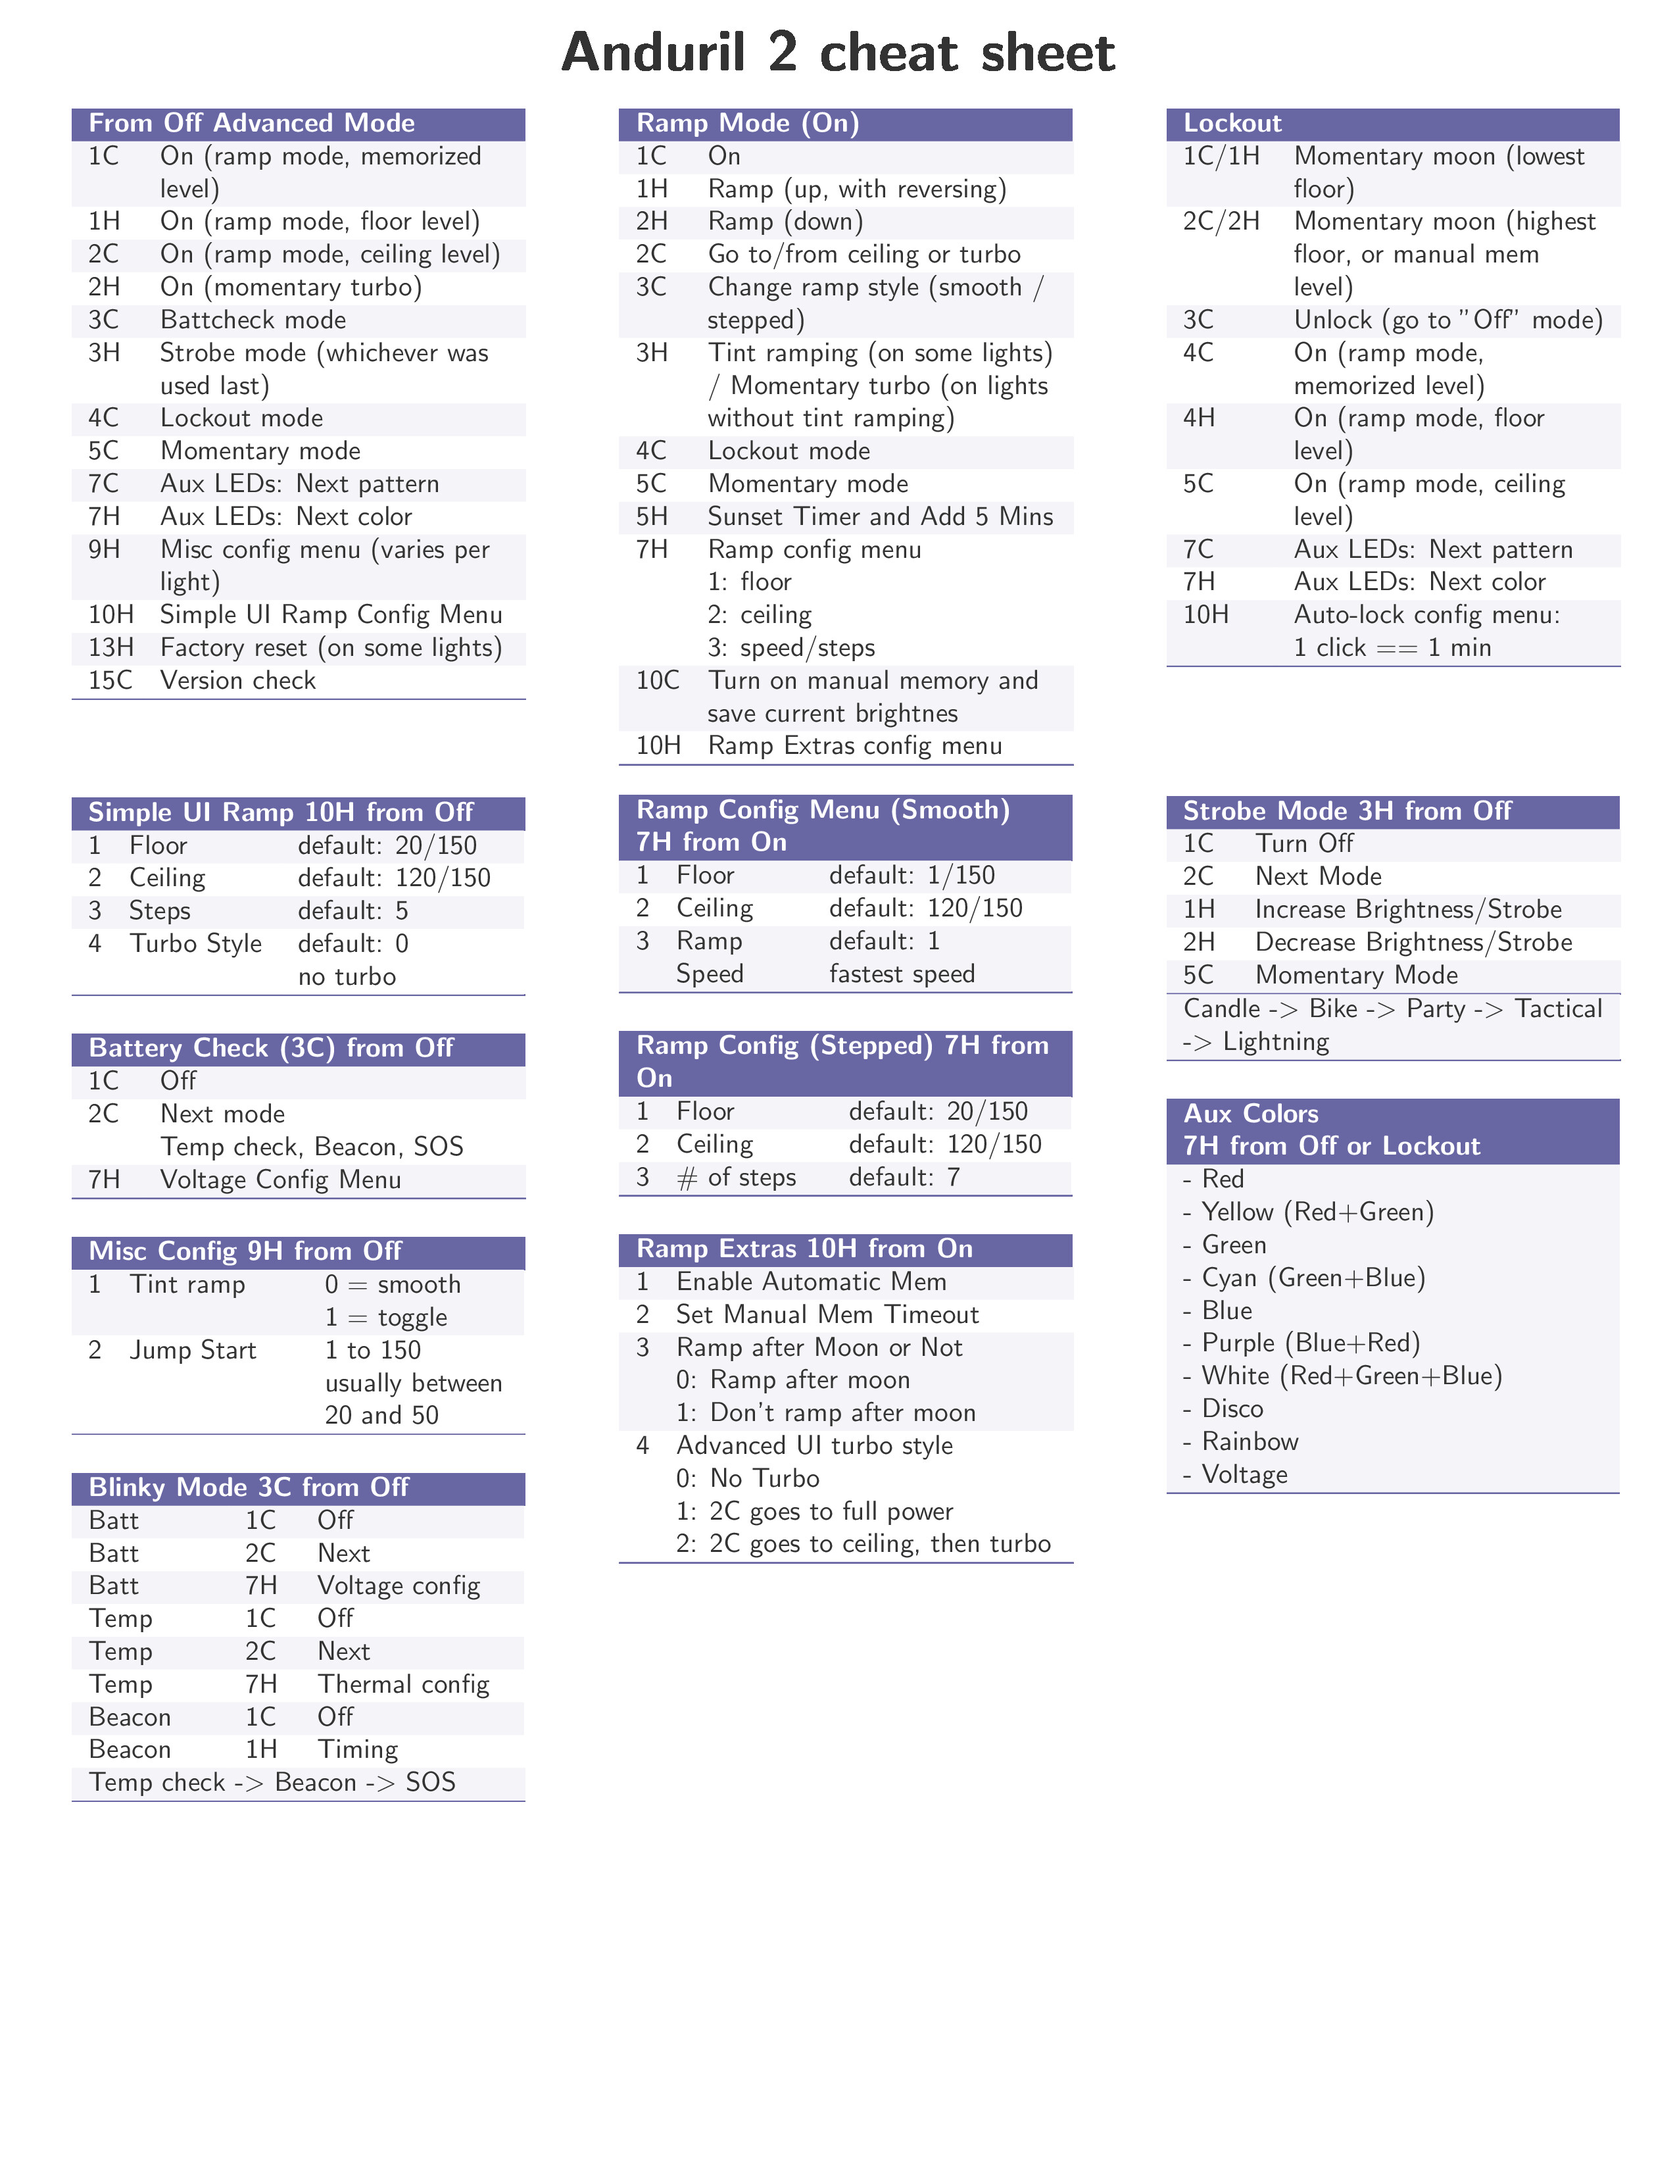
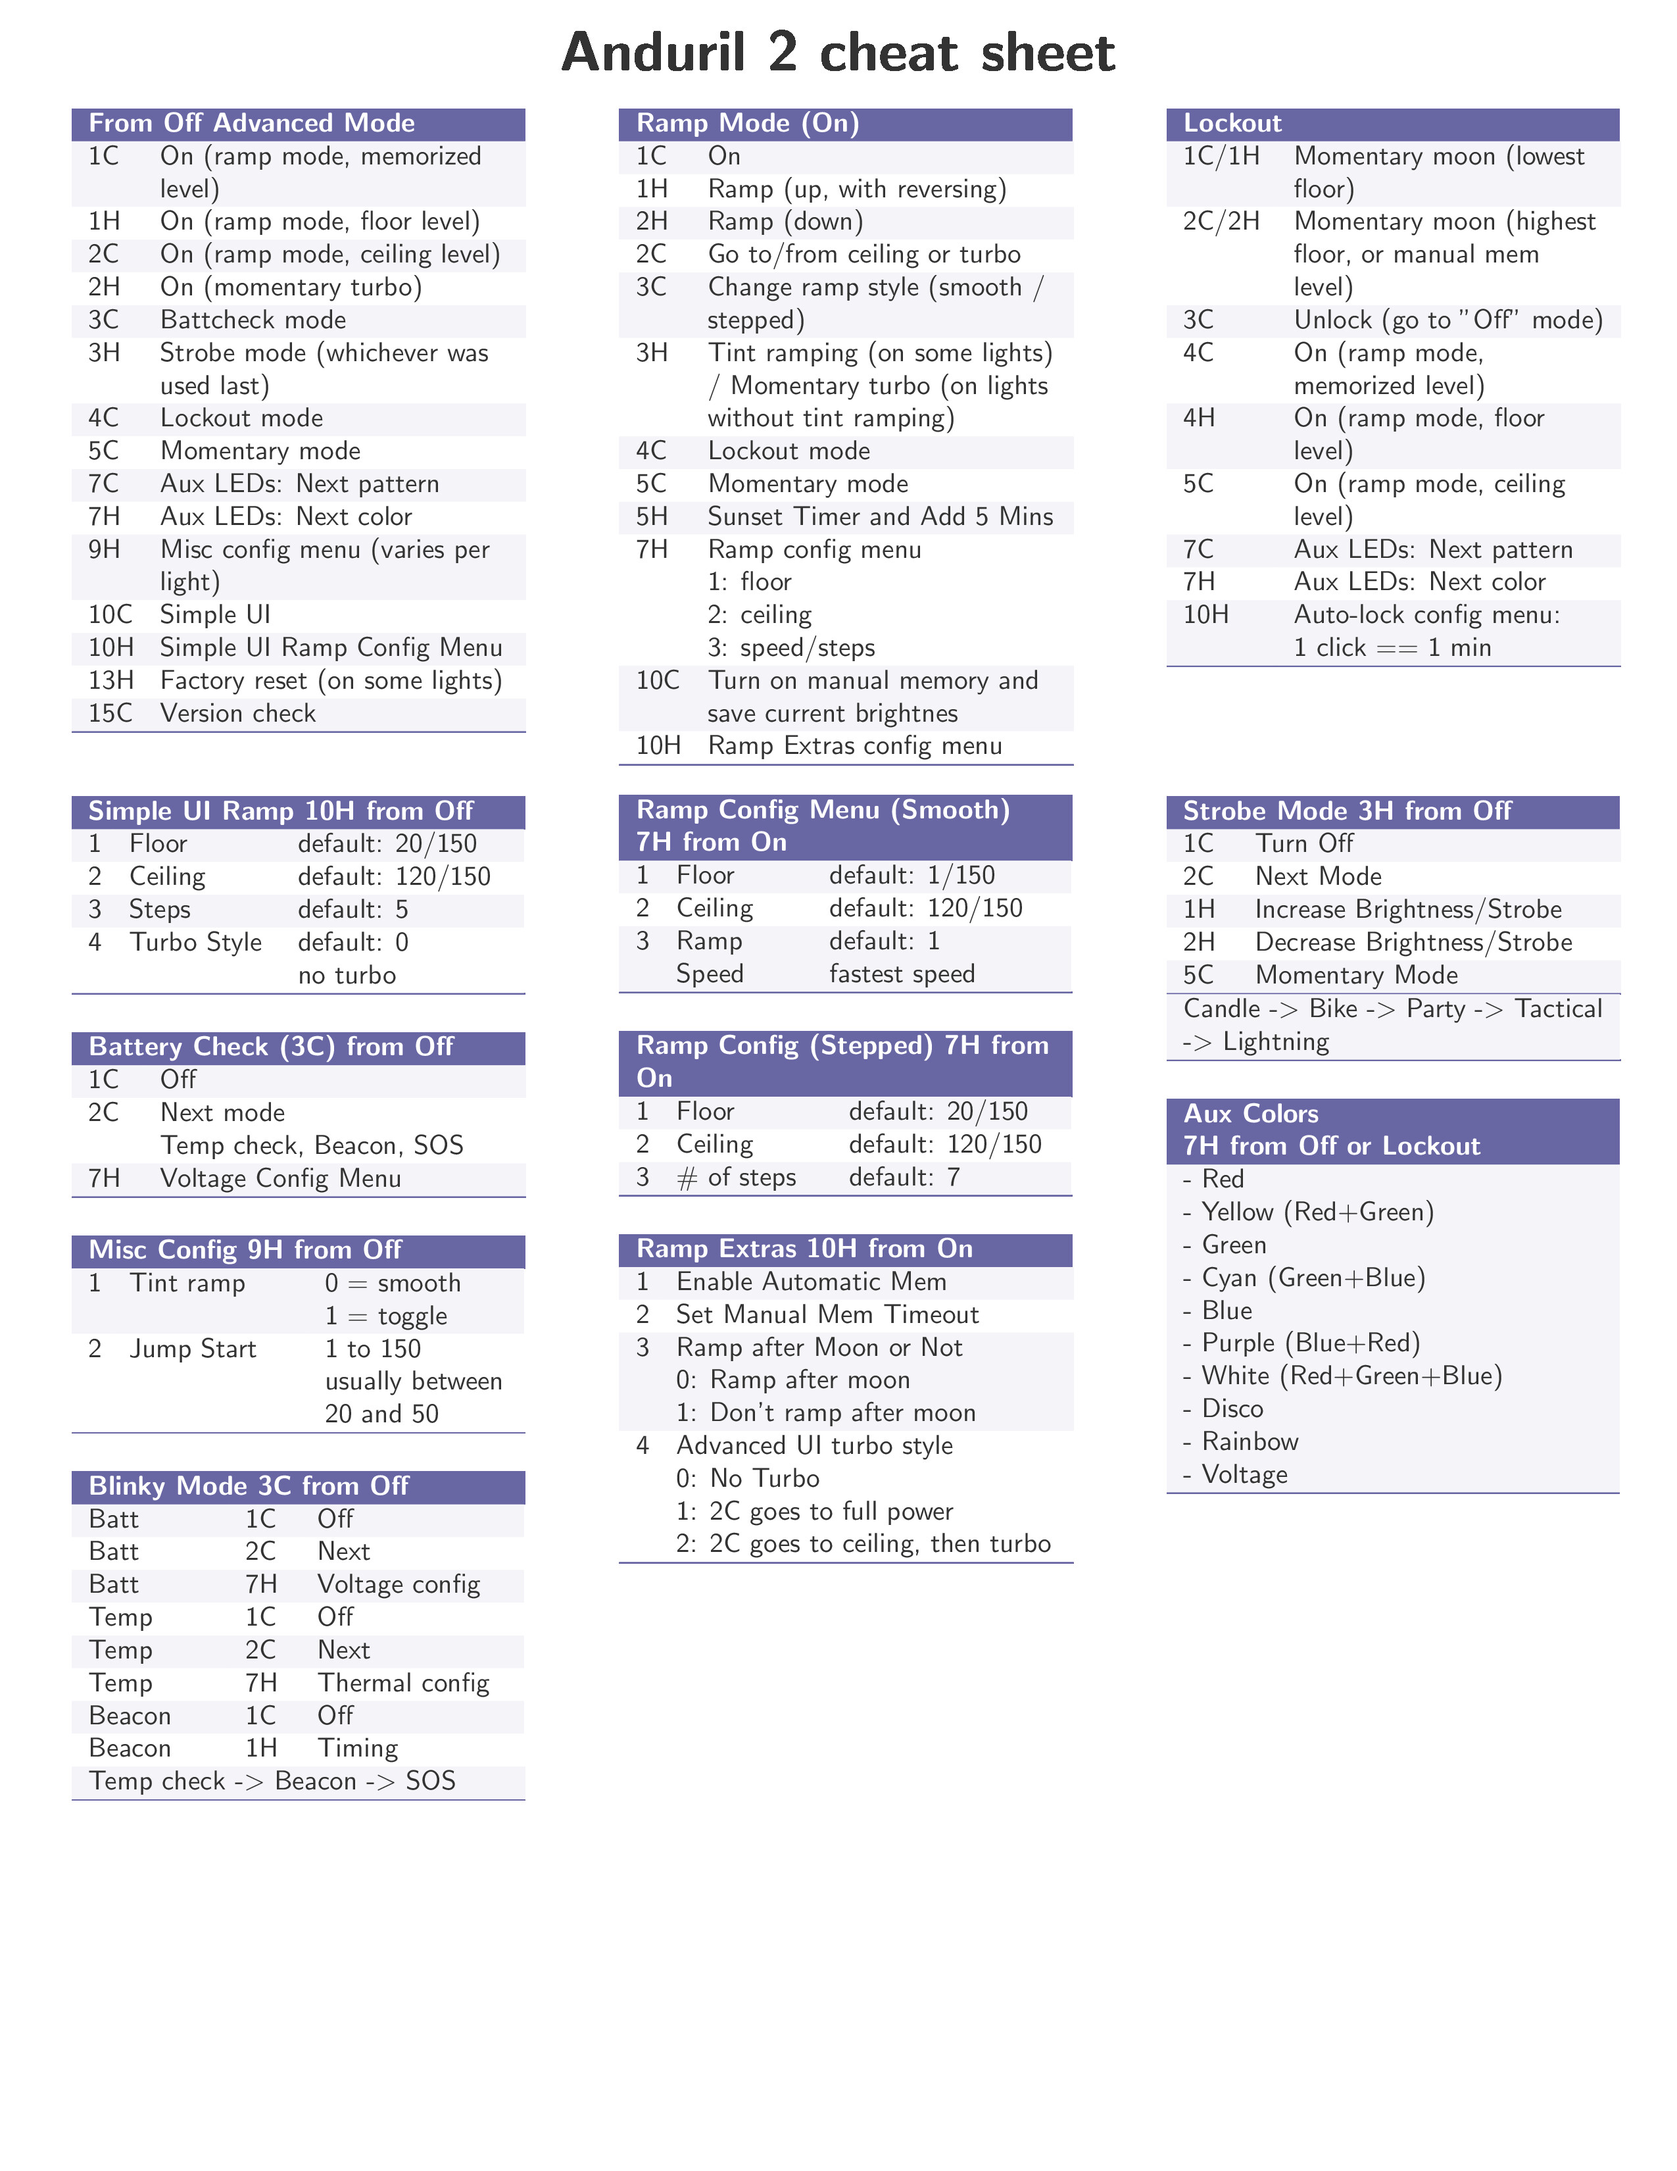
Advanced UI from off fix (#4)
* adds 10C from off

* fixes spacing between tables

* clean up comments

---------

diff --git a/cheatsheet.tex b/cheatsheet.tex
@@ -68,62 +68,52 @@
 % Row 0
 \SetRowColor{LightBackground}
 1C & On (ramp mode, memorized level) \tn
-% Row Count 1 (+ 1)
 % Row 1
 \SetRowColor{white}
 1H & On (ramp mode, floor level) \tn
-% Row Count 2 (+ 1)
 % Row 2
 \SetRowColor{LightBackground}
 2C & On (ramp mode, ceiling level) \tn
-% Row Count 3 (+ 1)
 % Row 3
 \SetRowColor{white}
 2H & On (momentary turbo) \tn
-% Row Count 4 (+ 1)
 % Row 4
 \SetRowColor{LightBackground}
 3C & Battcheck mode \tn
-% Row Count 5 (+ 1)
 % Row 5
 \SetRowColor{white}
 3H & Strobe mode (whichever was used last) \tn
-% Row Count 7 (+ 2)
 % Row 6
 \SetRowColor{LightBackground}
 4C & Lockout mode \tn
-% Row Count 8 (+ 1)
 % Row 7
 \SetRowColor{white}
 5C & Momentary mode \tn
-% Row Count 9 (+ 1)
 % Row 8
 \SetRowColor{LightBackground}
 7C & Aux LEDs: Next pattern \tn
-% Row Count 10 (+ 1)
 % Row 9
 \SetRowColor{white}
 7H & Aux LEDs: Next color \tn
-% Row Count 11 (+ 1)
 % Row 10
 \SetRowColor{LightBackground}
 9H & Misc config menu (varies per light) \tn
-% Row Count 12 (+ 1)
 % Row 11
 \SetRowColor{white}
-10H & Simple UI Ramp Config Menu \tn
-% Row Count 13 (+ 1)
+10C & Simple UI \tn
 % Row 12
 \SetRowColor{LightBackground}
-13H & Factory reset (on some lights) \tn
-% Row Count 14 (+ 1)
+10H & Simple UI Ramp Config Menu \tn
 % Row 13
 \SetRowColor{white}
+13H & Factory reset (on some lights) \tn
+% Row 14
+\SetRowColor{LightBackground}
 15C & Version check \tn
-% Row Count 15 (+ 1)
+% Row 15
 \hhline{>{\arrayrulecolor{DarkBackground}}--}
 \end{tabularx}
-\par\addvspace{3.50 em}
+\par\addvspace{2.25 em}
 
 % Simple UI Ramp Config
 % \begin{tabularx}{3.80 cm}{p{0.50 cm} x{3.5 cm} }
@@ -133,19 +123,16 @@
 % Row 0
 \SetRowColor{LightBackground}
 1 & Floor & default: 20/150 \tn
-% Row Count 1 (+ 1)
 % Row 1
 \SetRowColor{white}
 2 & Ceiling & default: 120/150 \tn
-% Row Count 2 (+ 1)
 % Row 2
 \SetRowColor{LightBackground}
 3 & Steps & default: 5 \tn
-% Row Count 3 (+ 1)
 % Row 3
 \SetRowColor{white}
 4 & Turbo Style & {default: 0 \\ no turbo} \tn
-% Row Count 4 (+ 1)
+% Row 4
 \hhline{>{\arrayrulecolor{DarkBackground}}---}
 \end{tabularx}
 \par\addvspace{1.3em}
@@ -157,15 +144,13 @@
 % Row 0
 \SetRowColor{LightBackground}
 1C & Off \tn
-% Row Count 1 (+ 1)
 % Row 1
 \SetRowColor{white}
 2C & {Next mode \\ Temp check, Beacon, SOS} \tn
-% Row Count 2 (+ 1)
 % Row 2
 \SetRowColor{LightBackground}
 7H & Voltage Config Menu \tn
-% Row Count 3 (+ 1)
+% Row 3
 \hhline{>{\arrayrulecolor{DarkBackground}}--}
 \end{tabularx}
 \par\addvspace{1.3 em}
@@ -179,7 +164,7 @@
 % Row 1
 \SetRowColor{white}
 2 & Jump Start & {1 to 150 \\ usually between 20 and 50} \tn
-% Row Count 4 (+ 2)
+% Row 2
 \hhline{>{\arrayrulecolor{DarkBackground}}---}
 \end{tabularx}
 \par\addvspace{1.3em}
@@ -241,51 +226,40 @@ Temp &7H&Thermal config \tn
 % Row 0
 \SetRowColor{LightBackground}
 1C & On \tn
-% Row Count 1 (+ 1)
 % Row 1
 \SetRowColor{white}
 1H & Ramp (up, with reversing) \tn
-% Row Count 2 (+ 1)
 % Row 2
 \SetRowColor{LightBackground}
 2H & Ramp (down) \tn
-% Row Count 3 (+ 1)
 % Row 3
 \SetRowColor{white}
 2C & Go to/from ceiling or turbo \tn
-% Row Count 4 (+ 1)
 % Row 4
 \SetRowColor{LightBackground}
 3C & Change ramp style (smooth / stepped) \tn
-% Row Count 5 (+ 1)
 % Row 5
 \SetRowColor{white}
 3H & Tint ramping (on some lights) / Momentary turbo (on lights without tint ramping) \tn
-% Row Count 8 (+ 3)
 % Row 6
 \SetRowColor{LightBackground}
 4C & Lockout mode \tn
-% Row Count 9 (+ 1)
 % Row 7
 \SetRowColor{white}
 5C & Momentary mode \tn
-% Row Count 10 (+ 1)
 % Row 8
 \SetRowColor{LightBackground}
 5H & Sunset Timer and Add 5 Mins \tn
-% Row Count 11 (+ 1)
 % Row 9
 \SetRowColor{white}
 7H & {Ramp config menu \\ 1: floor \\ 2: ceiling \\ 3: speed/steps} \tn
-% Row Count 13 (+ 2)
 % Row 10
 \SetRowColor{LightBackground}
 10C & Turn on manual memory and save current brightnes \tn
-% Row Count 15 (+ 2)
 % Row 11
 \SetRowColor{white}
 10H & Ramp Extras config menu \tn
-% Row Count 16 (+ 1)
+% Row 12
 \hhline{>{\arrayrulecolor{DarkBackground}}--}
 \end{tabularx}
 \par\addvspace{1 em}
@@ -321,7 +295,7 @@ Temp &7H&Thermal config \tn
 % Row 2
 \SetRowColor{LightBackground}
 3 & \# of steps & default:  7 \tn
-% Row Count 3 (+ 1)
+% Row 3
 \hhline{>{\arrayrulecolor{DarkBackground}}---}
 \end{tabularx}
 \par\addvspace{1.3em}
@@ -393,23 +367,19 @@ Temp &7H&Thermal config \tn
 % Row 0
 \SetRowColor{LightBackground}
 1C & Turn Off \tn
-% Row Count 1 (+ 1)
 % Row 1
 \SetRowColor{white}
 2C & Next Mode\tn
-% Row Count 2 (+ 1)
 % Row 2
 \SetRowColor{LightBackground}
 1H & Increase Brightness/Strobe \tn
-% Row Count 3 (+ 1)
 % Row 3
 \SetRowColor{white}
 2H & Decrease Brightness/Strobe \tn
-% Row Count 4 (+ 1)
 % Row 4
 \SetRowColor{LightBackground}
 5C & Momentary Mode \tn
-% Row Count 5 (+ 1)
+% Row 5
 \hhline{>{\arrayrulecolor{DarkBackground}}--}
 \SetRowColor{LightBackground}
 \mymulticolumn{2}{x{5.41 cm}}{Candle -\textgreater{} Bike -\textgreater{} Party -\textgreater{} Tactical -\textgreater{} Lightning}  \tn
